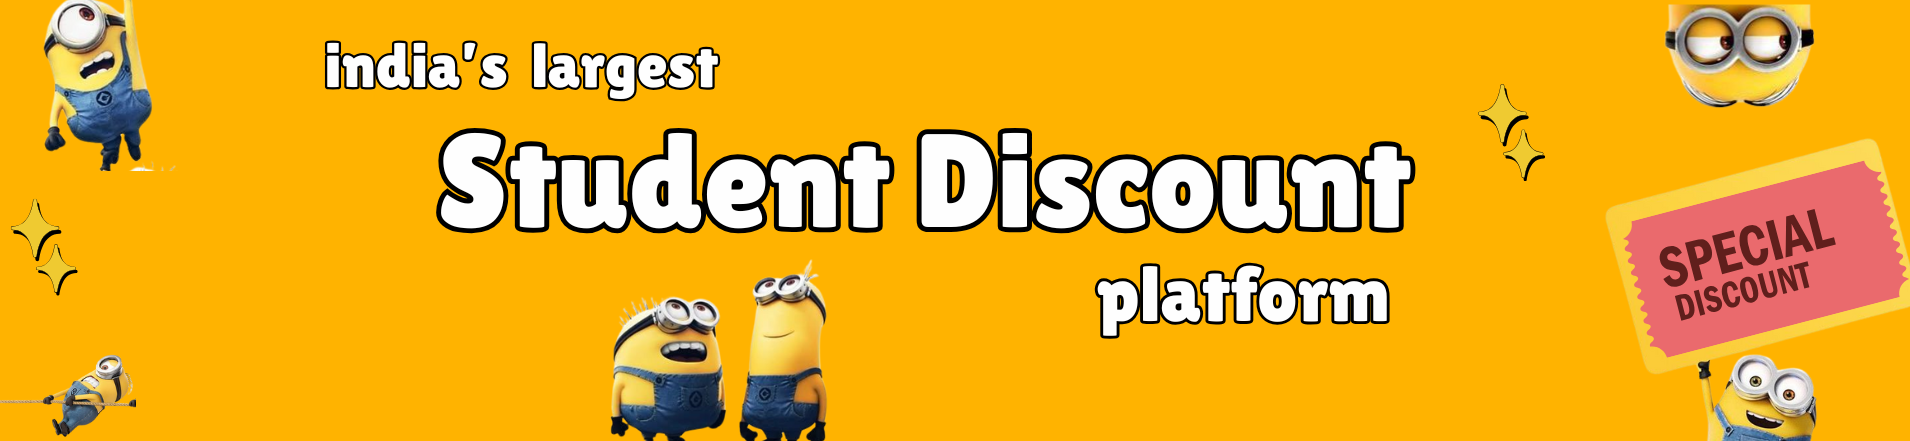
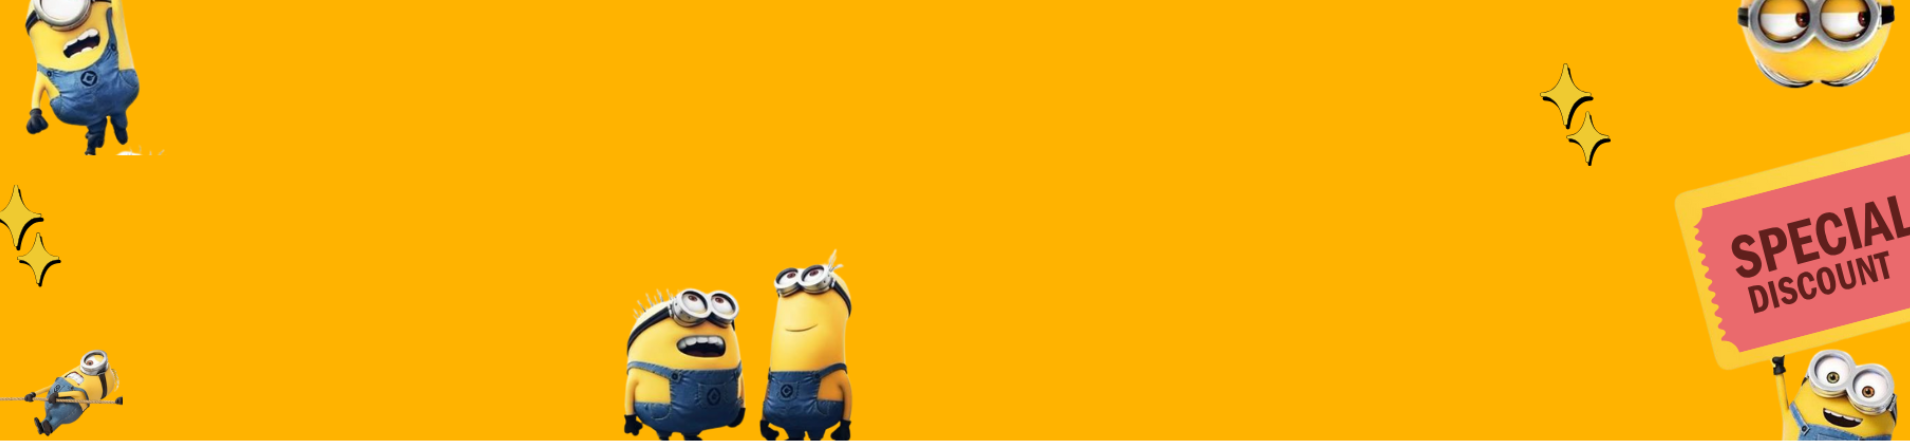
landing page updated

diff --git a/client/components/layout/Navbar.tsx b/client/components/layout/Navbar.tsx
@@ -213,6 +213,7 @@ export default function NavbarClient({ user }: { user: any }) {
   return (
     <header
       className={`w-full z-50 bg-black border-b border-gray-200 transition-transform duration-500 ${showNavbar ? "translate-y-0" : "-translate-y-full"}`}
+      style={{ position: 'sticky', top: 0 }}
     >
       {/* Top Row: Logo, Country, Search, Auth */}
       <div className="flex items-center justify-between px-6 py-3 max-w-7xl mx-auto" ref={navContainerRef}>
@@ -347,6 +348,7 @@ export default function NavbarClient({ user }: { user: any }) {
       </div>
 
       {/* Second Row: Nav Links */}
+      {/* Desktop Nav Links */}
       <nav className="w-full bg-white border-t border-gray-200" ref={navLinksRef}>
         <div className="flex items-center justify-center gap-8 px-8 py-2 max-w-7xl mx-auto">
           {navCategories.map((category, index) => {
@@ -375,7 +377,7 @@ export default function NavbarClient({ user }: { user: any }) {
               >
                 <Link
                   href={category.path}
-                  className={`text-base font-extrabold tracking-wide uppercase text-black hover:text-orange-400 transition-colors ${activeCategory === category.name ? "text-orange-400" : ""}`}
+                  className={`text-base font-extrabold tracking-wide uppercase text-black hover:text-orange-400 transition-colors ${activeCategory === category.name ? "text-orange-400" : ""} hidden md:block`}
                   style={{ fontFamily: 'Inter, Segoe UI, Arial, sans-serif' }}
                   onClick={resetNavState}
                   prefetch={false}
@@ -413,9 +415,9 @@ export default function NavbarClient({ user }: { user: any }) {
       <AnimatePresence>
         {mobileMenuOpen && (
           <motion.div
-            className="md:hidden bg-gradient-to-b from-black/95 to-black backdrop-blur-lg absolute w-full shadow-lg overflow-hidden"
+            className="fixed inset-0 md:hidden bg-gradient-to-b from-black/95 to-black backdrop-blur-lg w-full h-full z-[9999] shadow-lg overflow-y-auto"
             initial={{ height: 0, opacity: 0 }}
-            animate={{ height: "auto", opacity: 1 }}
+            animate={{ height: "100%", opacity: 1 }}
             exit={{ height: 0, opacity: 0 }}
             transition={{ duration: 0.3, ease: "easeInOut" }}
           >

diff --git a/client/components/sections/NewArrivals.tsx b/client/components/sections/NewArrivals.tsx
@@ -3,27 +3,27 @@ import Image from "next/image";
 
 const newArrivals = [
     {
-        title: "3 month subscription giveaway",
-        brand: "Coursera",
+        title: "Lakme Salon Discount",
+        brand: "Lakme Salon",
         description: "For anyone to use • Online • Study & Stationery",
-        image: "/assets/newarrivals/coursera-card.png",
-        logo: "/assets/newarrivals/coursera-logo.png",
-        badge: "Only on SB",
+        image: "/assets/newarrivals/lakmesalon.jpg",
+        logo: "/assets/newarrivals/lakmelogo.png",
+        badge: "Only on brokeBro",
     },
     {
-        title: "15% off MSL+",
-        brand: "My Study Life",
-        description: "For students only • Online • Tech & Mobile",
-        image: "/assets/newarrivals/msl-card.png",
-        logo: "/assets/newarrivals/msl-logo.png",
+        title: "soxytoes Discount",
+        brand: "soxytoes",
+        description: "For students only ",
+        image: "/assets/newarrivals/soxytoes.jpg",
+        logo: "/assets/newarrivals/soxytoes-logo.png",
         badge: null,
     },
     {
-        title: "Free 1 Year Grammarly Premium",
-        brand: "Grammarly",
-        description: "For students • Online • Writing Tools",
-        image: "/assets/newarrivals/grammarly-card.png",
-        logo: "/assets/newarrivals/grammarly-logo.png",
+        title: "lakme Discount",
+        brand: "Lakme",
+        description: "For students • Online • Beauty & Personal Care",
+        image: "/assets/newarrivals/lakme.png",
+        logo: "/assets/newarrivals/lakmelogo.png",
         badge: "Student Exclusive",
     },
     {
@@ -68,7 +68,7 @@ export default function NewArrivals() {
     };
 
     return (
-        <section className="w-full bg-white pt-4 pb-8 -mt-6">
+        <section className="w-full bg-white pt-4 pb-8 mt-14">
             <div className="max-w-7xl mx-auto px-4">
                 <div className="flex items-center justify-between mb-4">
                     <h2 className="text-2xl md:text-3xl font-bold text-gray-900 tracking-tight">New Arrivals</h2>

diff --git a/client/components/sections/MostViewedDiscounts.tsx b/client/components/sections/MostViewedDiscounts.tsx
@@ -3,35 +3,35 @@ import Image from "next/image";
 
 const mostViewed = [
     {
-        title: "Flat 40% Off on Udemy",
-        brand: "Udemy",
+        title: "Biba Discount",
+        brand: "Biba",
         description: "For everyone • Online • Courses",
-        image: "/assets/mostviewed/udemy-card.png",
-        logo: "/assets/mostviewed/udemy-logo.png",
+        image: "/assets/mostviewed/biba.png",
+        logo: "/assets/mostviewed/bibalogo.png",
         badge: "Popular",
     },
     {
-        title: "Spotify Premium Student Plan",
-        brand: "Spotify",
+        title: "soxytoes Discount",
+        brand: "soxytoes",
         description: "For students only • Online • Music",
         image: "/assets/mostviewed/spotify-card.png",
         logo: "/assets/mostviewed/spotify-logo.png",
         badge: null,
     },
     {
-        title: "50% Off Adobe Creative Cloud",
-        brand: "Adobe",
-        description: "For students & teachers • Online • Design",
-        image: "/assets/mostviewed/adobe-card.png",
-        logo: "/assets/mostviewed/adobe-logo.png",
+        title: "glued Discount",
+        brand: "glued",
+        description: "For gamers • Online • Gaming",
+        image: "/assets/mostviewed/glued.png",
+        logo: "/assets/mostviewed/glued-logo.png",
         badge: "Top Rated",
     },
     {
-        title: "Zomato Pro Student Offer",
-        brand: "Zomato",
-        description: "For students only • Online • Food & Dining",
-        image: "/assets/mostviewed/zomato-card.png",
-        logo: "/assets/mostviewed/zomato-logo.png",
+        title: "muscle junkie Discount",
+        brand: "muscle junkie",
+        description: "For students gym-goers • Online • Fitness",
+        image: "/assets/mostviewed/muscle-junkie-card.png",
+        logo: "/assets/mostviewed/muscle-junkie-logo.png",
         badge: null,
     },
     {

diff --git a/client/components/sections/Hero.tsx b/client/components/sections/Hero.tsx
@@ -2,17 +2,29 @@ import Image from "next/image";
 
 export default function Hero() {
   return (
-    <section className="relative w-full flex flex-col items-center justify-center h-[300px] md:h-[420px] lg:h-[480px] !m-0 !p-0 !border-0">
+    <section className="relative w-full flex flex-col items-center justify-center h-[220px] xs:h-[260px] sm:h-[300px] md:h-[420px] lg:h-[480px] !m-0 !p-0 !border-0">
       {/* Background image overlay */}
       <Image
         src="/assets/heromain.png"
         alt="Hero background"
         fill
-        className="object-contain object-top pointer-events-none select-none"
+        className="object-cover object-top pointer-events-none select-none transition-transform duration-500 scale-150 md:scale-100"
         priority
       />
+      {/* Heading overlay */}
+      <div className="absolute top-1/2 left-1/2 -translate-x-1/2 -translate-y-[80%] w-full flex justify-center items-center z-10 px-2 sm:px-4">
+        <h1
+          className="text-white text-3xl xs:text-4xl sm:text-5xl md:text-6xl lg:text-7xl font-extrabold text-center drop-shadow-lg font-sans rounded-xl px-2 py-2 sm:px-4 sm:py-3 leading-tight max-w-[98vw] sm:max-w-3xl"
+          style={{
+            fontFamily: 'Montserrat, Arial Rounded MT Bold, Arial, sans-serif',
+            letterSpacing: '-0.03em',
+          }}
+        >
+          India&apos;s largest student discount platform
+        </h1>
+      </div>
       {/* Decorative elements (optional, can be added as needed) */}
-      {/* Main Content */}
+      {/* Main Content */}S
     </section>
   );
 }

diff --git a/client/app/(categories)/technology/page.tsx b/client/app/(categories)/technology/page.tsx
@@ -177,7 +177,7 @@ const EcommerceHero: React.FC = () => {
       {/* Search Bar */}
 
 
-      <div className="py-20 bg-gradient-to-b from-white via-orange-50 to-pink-50 relative overflow-hidden">
+      <div className="mt-10 py-20 bg-gradient-to-b from-white via-orange-50 to-pink-50 relative overflow-hidden">
         {/* Light theme background decorations */}
         <div className="absolute inset-0 opacity-10 pointer-events-none select-none">
           <div className="absolute top-20 left-10 w-72 h-72 bg-gradient-to-r from-orange-200 to-pink-200 rounded-full filter blur-3xl"></div>

diff --git a/client/app/layout.tsx b/client/app/layout.tsx
@@ -40,7 +40,7 @@ export default function RootLayout({
       <body className={`${inter.className} bg-transparent`}>
         <ReferralProcessor />
         <NavbarWrapper />
-        <main>
+        <main className="pt-[70px] md:pt-0">
           <PageTransition>{children}</PageTransition>
         </main>
         <Footer />
